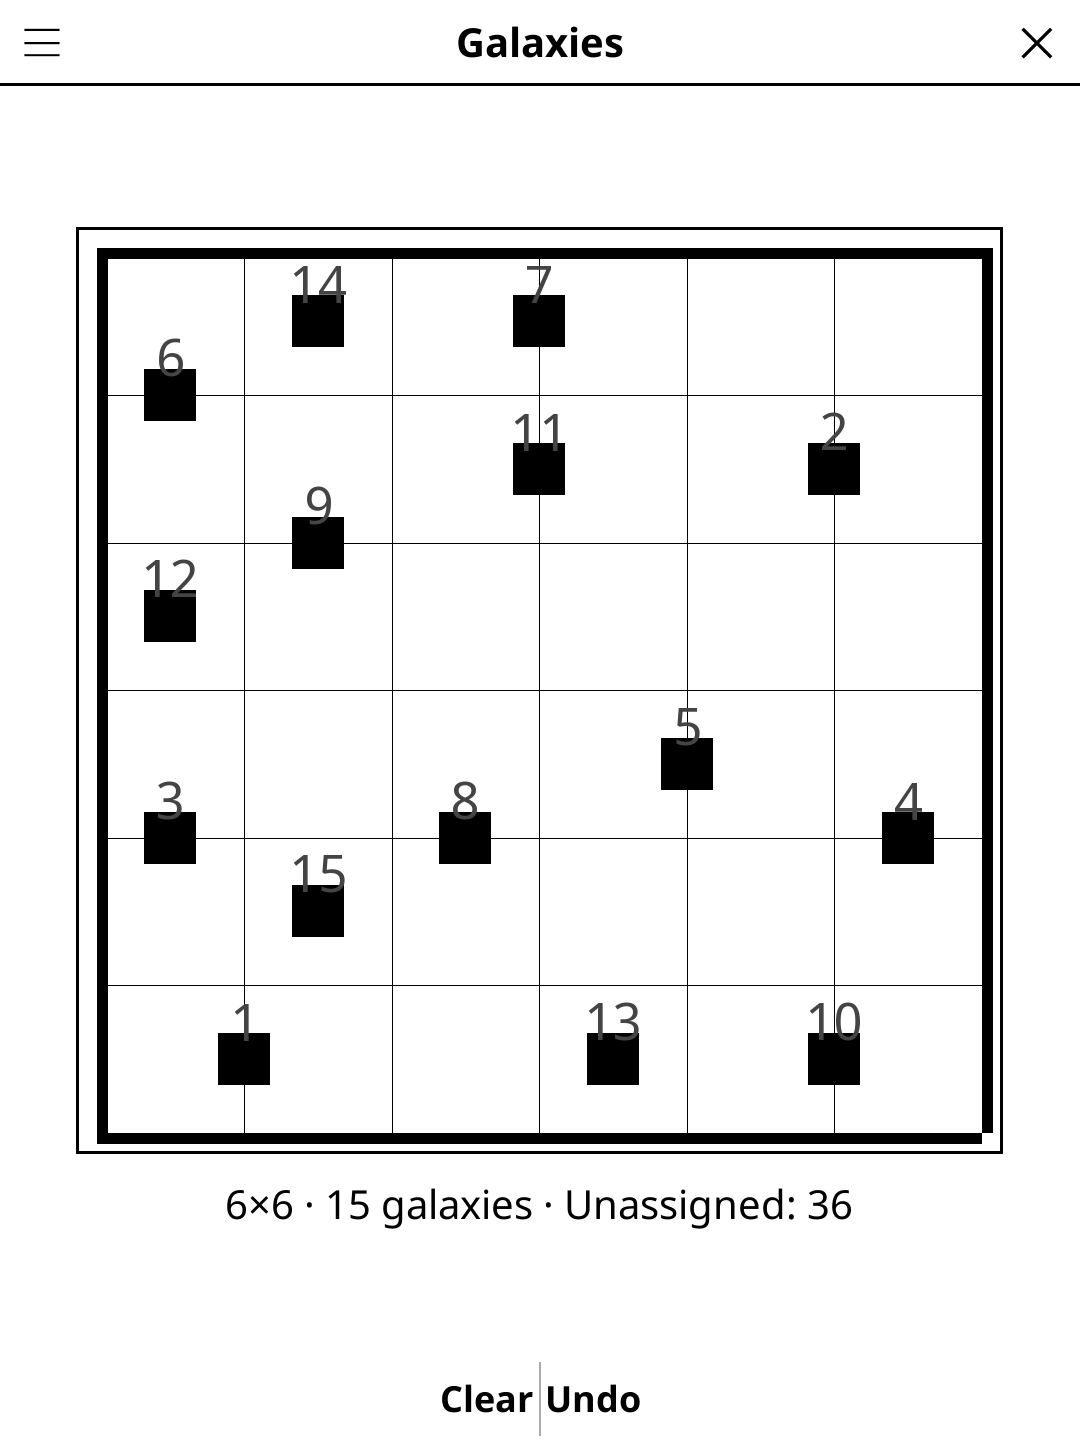
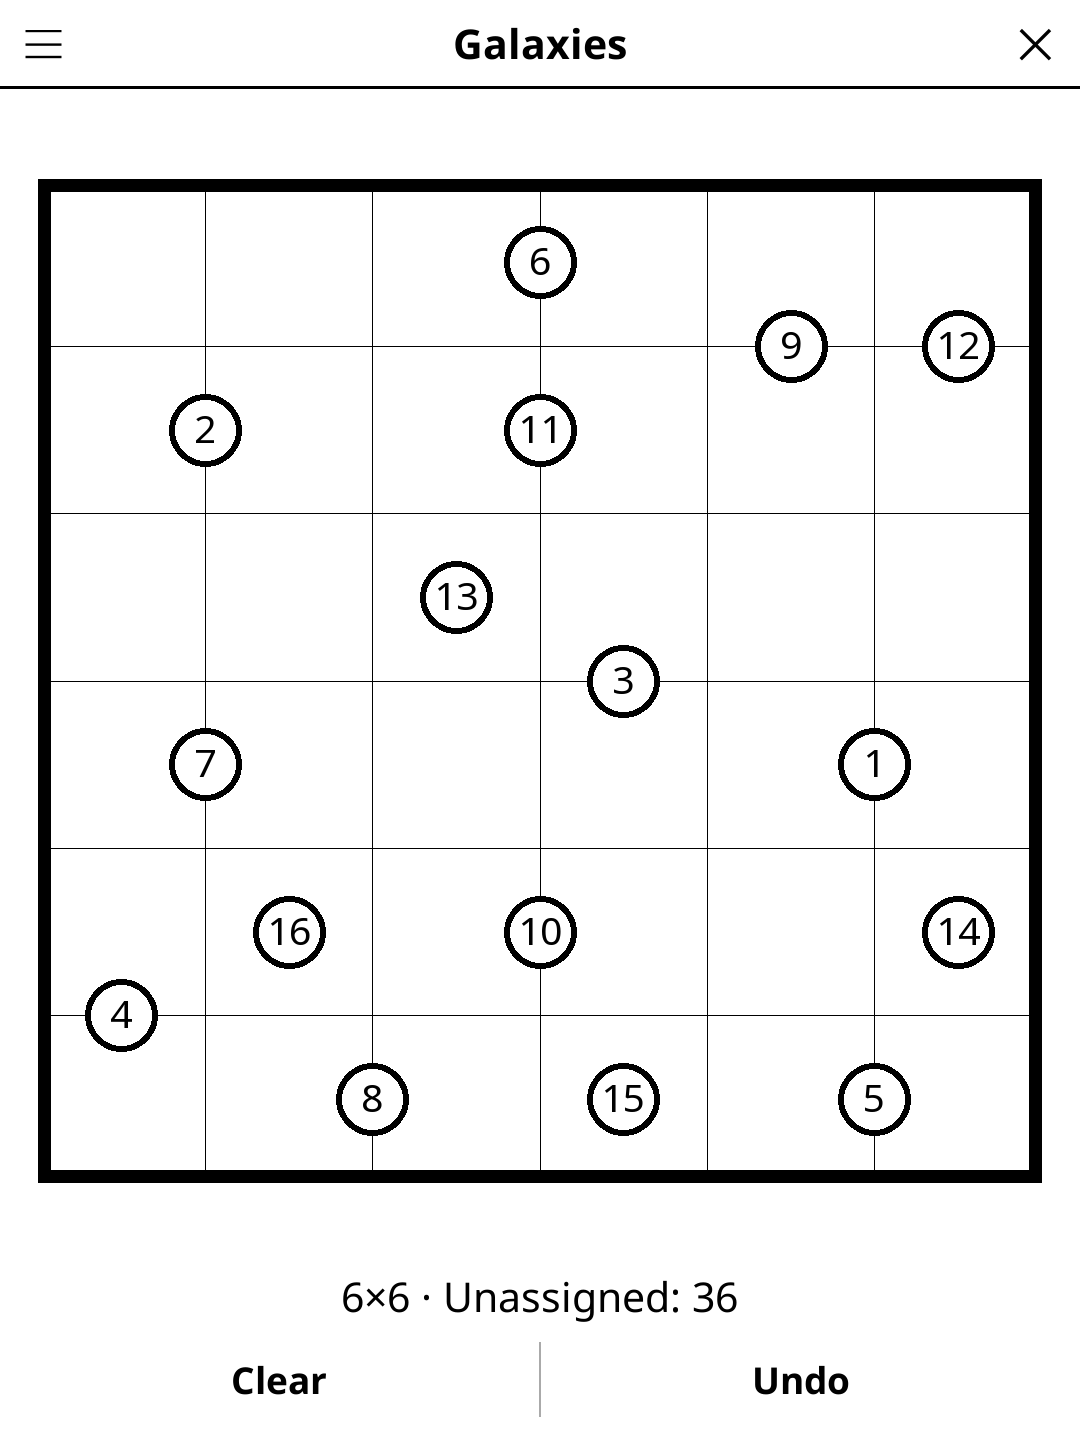
release: 1.3.0 -- redesigned screen, harmonised menu, New game at round end
Screen redesign (full-width action bar, unified pad, status line, larger
board), harmonised title-bar menu, and a "New game" button once the round
is over. See CHANGELOG.md.

diff --git a/CHANGELOG.md b/CHANGELOG.md
@@ -2,6 +2,33 @@
 
 All notable changes to this project will be documented in this file.
 
+## [1.3.0] - 2026-10-30
+
+### Added
+- "New game" once the puzzle is solved (or the solution is shown): the
+  action bar shows it in place of Clear and Undo, so the next puzzle no
+  longer needs the menu.
+- The rules now explain how to play: tap a cell to assign it to the next
+  galaxy and keep tapping to cycle through them.
+
+### Changed
+- Redesigned play screen, in line with the other games: a full-width action
+  bar, a larger board that fills the available room, and one frame around
+  it. The status line reads "size · Unassigned: n" and wraps in landscape
+  instead of being cut off.
+- Galaxy centres are drawn as round white discs with a black ring and the
+  galaxy number centred inside, instead of black squares with a barely
+  readable grey number. They now read on shaded and unshaded cells alike,
+  and the number -- which tells you which galaxy a tap assigns next -- is
+  sized to fit the disc.
+- Title-bar menu in the same order as every other game, with "Reveal"
+  renamed "Show solution".
+- New README screenshot.
+
+### Fixed
+- The board's closing grid line was drawn just past its edge, so the right
+  and bottom borders spilled outside the board.
+
 ## [1.2.3] - 2026-10-07
 
 ### Fixed

diff --git a/README.md b/README.md
@@ -15,7 +15,6 @@ Divide the grid into regions, one per galaxy symbol. Each region must be **rotat
 - **Multiple grid sizes**
 - **Three difficulty levels** — Easy, Medium, Hard
 - **Symmetry preview** — highlights the symmetric counterpart of a selected cell
-- **Check** — validates symmetry and coverage
 - **Auto-save** — puzzle state saved and restored on next launch
 
 ## Installation
@@ -31,8 +30,7 @@ Divide the grid into regions, one per galaxy symbol. Each region must be **rotat
 |--------|-----|
 | Assign cell to galaxy | Tap cell |
 | Cycle through galaxies | Tap cell again |
-| Check progress | Tap **Check** |
-| New puzzle | Tap **New** |
+| New puzzle | Menu → **New game** |
 | Show rules | Tap **Rules** |
 
 ## License
